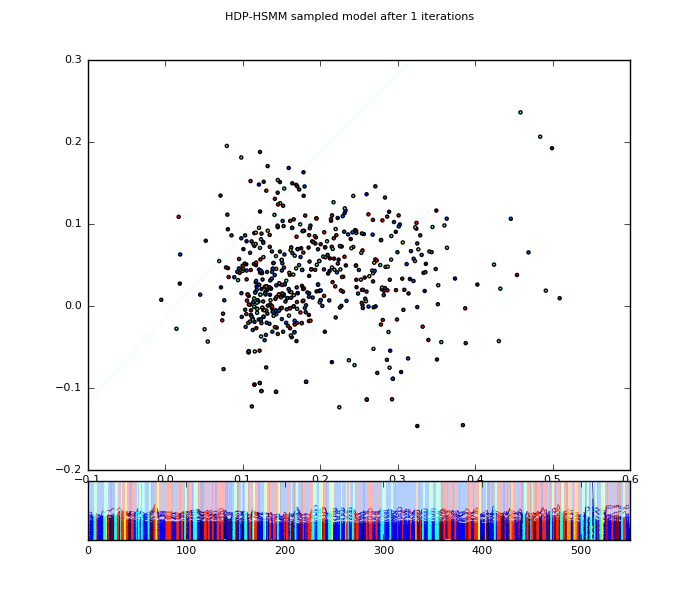
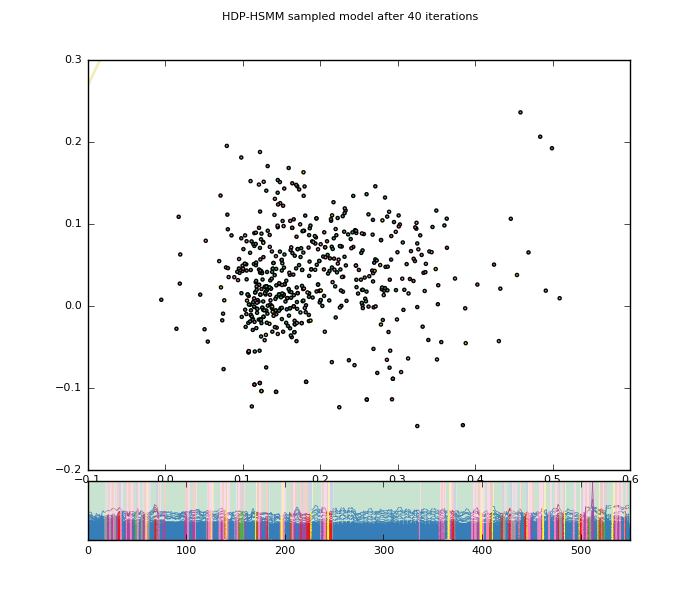
Pushing plots from incorrect Atari game playing

diff --git a/infer.py b/infer.py
@@ -50,7 +50,7 @@ data = data - mean[:, np.newaxis]
 Nmax = 10
 
 # Set iteration count
-ITERATIONS = 20
+ITERATIONS = 40
 
 # and some hyperparameters
 obs_dim = data.shape[1]
